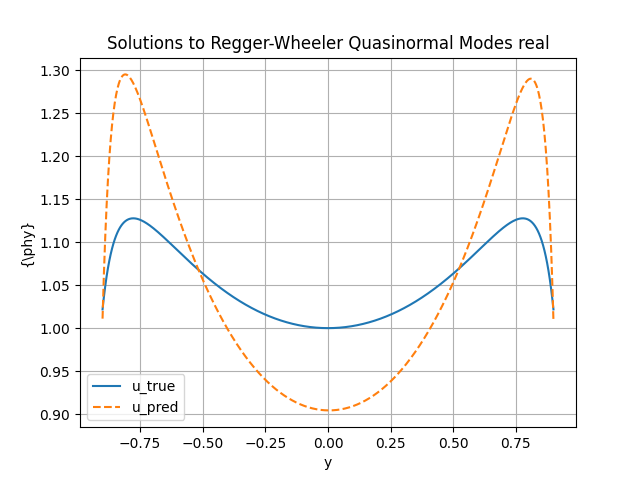
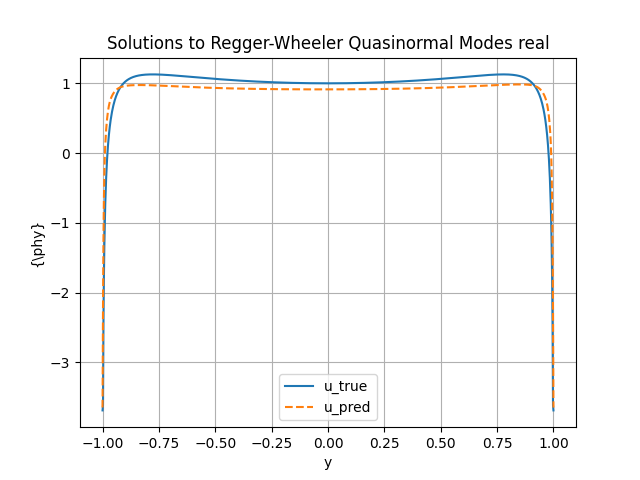
graficas

diff --git a/R-W-inverse_problem.py b/R-W-inverse_problem.py
@@ -6,7 +6,7 @@ import matplotlib.pyplot as plt
 #parametros a encontrar
 w_r = dde.Variable(1.0) # Variable para ajustar
 w_i = dde.Variable(-1.0) # Variable para ajustar
-bdr_inf = 0.9
+bdr_inf = 0.9999
 
 #funciones para extraer valores de la sulucion y agregarlos al 
 #entrenamiento para ajustar las w
@@ -62,10 +62,10 @@ ic_u = dde.icbc.DirichletBC(geom, func_r,  lambda _,on_boundary: on_boundary, co
 ic_v = dde.icbc.DirichletBC(geom, func_i,  lambda _,on_boundary: on_boundary, component=1)
 
 #datos experimentales para hayar el parametro
-y_values, u_values = gen_traindata_r(50) 
+y_values, u_values = gen_traindata_r(500) 
 exp_data_r = dde.icbc.PointSetBC(y_values, u_values, component=0) # valores w real 
 
-y_values, v_values = gen_traindata_i(50)
+y_values, v_values = gen_traindata_i(500)
 exp_data_i = dde.icbc.PointSetBC(y_values, v_values, component=1) #valores w imaginario
 
 #Datos De entrenamiento
